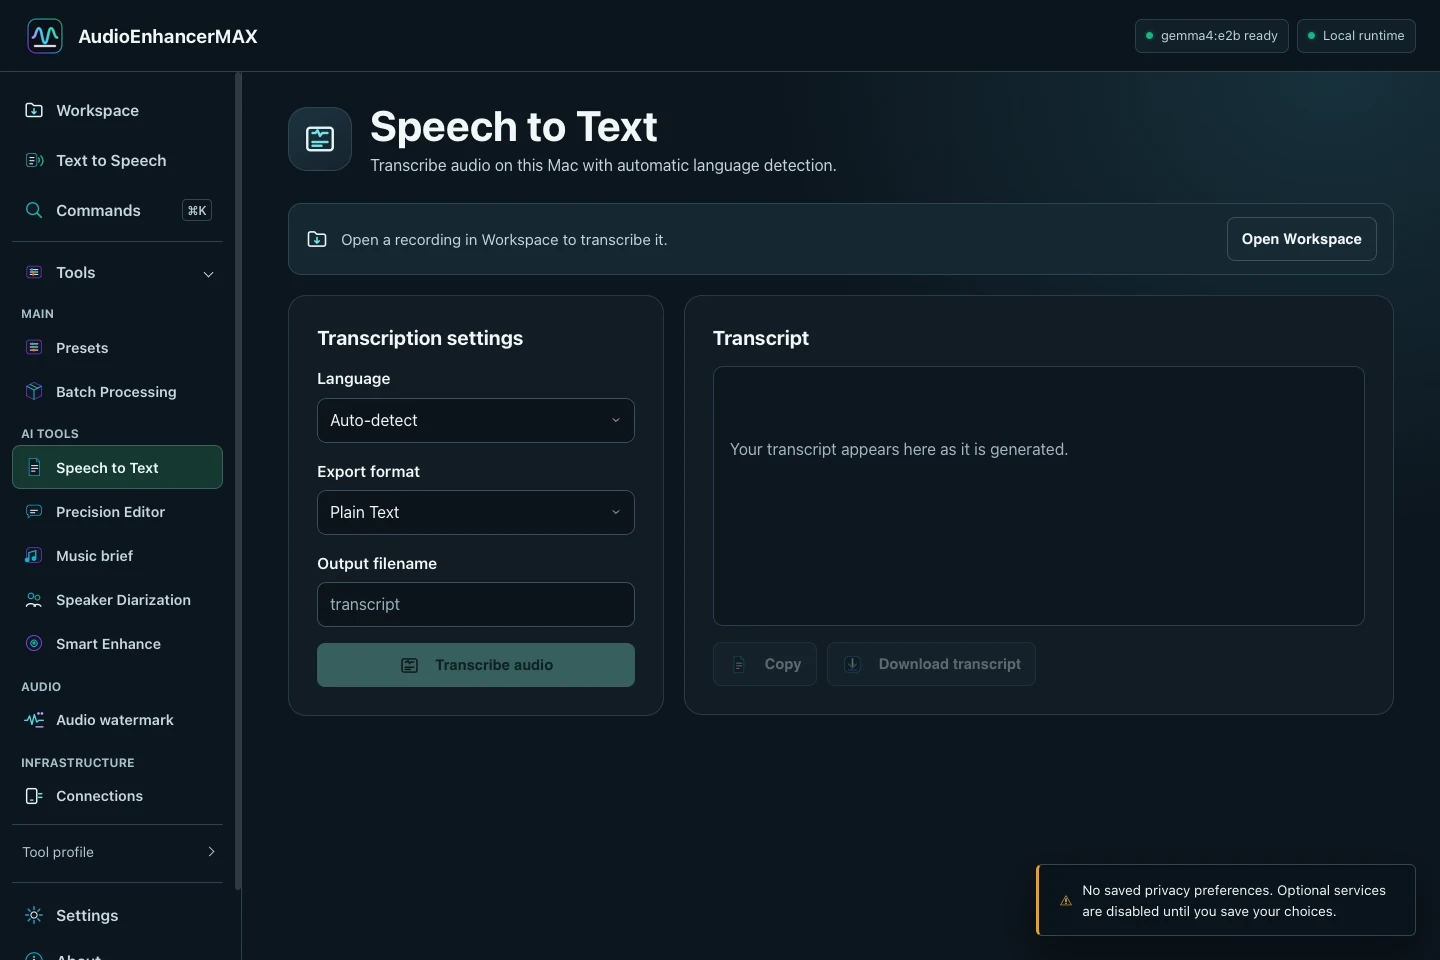
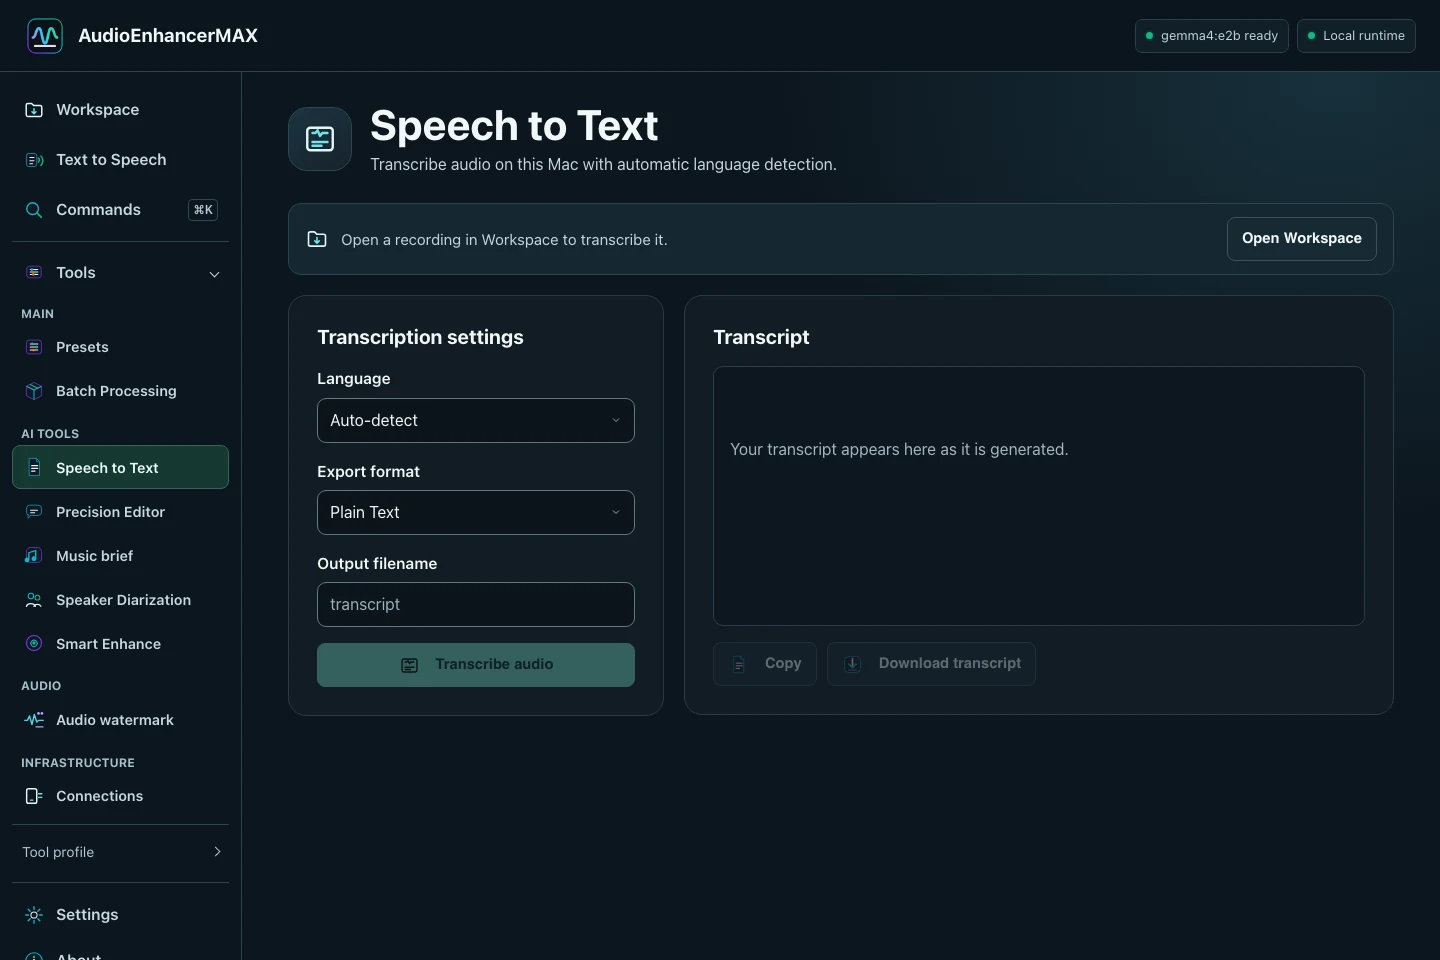
Show the distributed Mac build in the website and press kit

diff --git a/web/press.html b/web/press.html
@@ -19,8 +19,8 @@
 <section class="aem4-release aem412" id="gallery-4-1-2" aria-labelledby="gallery-4-1-2-heading">
 <h2 id="gallery-4-1-2-heading">Mac workspace and speech tools</h2>
 <p>Captured from the 4.1.3 QA package showing the refreshed interface shipped in 4.1.2 BETA, build 4.1.4.</p>
-<figure><a href="img/press/v4.1.2-beta.1/mac-workspace.webp"><img src="img/press/v4.1.2-beta.1/mac-workspace.webp" width="1440" height="1000" loading="lazy" decoding="async" alt="Mac Audio workspace with the original signal sculpture, import actions and Verify content panel"></a><figcaption>Audio workspace · Mac QA build 4.1.3</figcaption></figure>
-<div class="aem412-mac-grid"><figure><a href="img/press/v4.1.2-beta.1/mac-tts.webp"><img src="img/press/v4.1.2-beta.1/mac-tts.webp" width="1440" height="960" loading="lazy" decoding="async" alt="Mac Text to Speech workspace with script editor and Voice and Delivery controls"></a><figcaption>Text to Speech · Mac QA build 4.1.3</figcaption></figure><figure><a href="img/press/v4.1.2-beta.1/mac-stt.webp"><img src="img/press/v4.1.2-beta.1/mac-stt.webp" width="1440" height="960" loading="lazy" decoding="async" alt="Mac Speech to Text workspace with source language and transcription controls"></a><figcaption>Speech to Text · Mac QA build 4.1.3</figcaption></figure></div>
+<figure><a href="img/press/v4.1.2-beta.1/mac-workspace.webp?build=4.1.4"><img src="img/press/v4.1.2-beta.1/mac-workspace.webp?build=4.1.4" width="1440" height="1000" loading="lazy" decoding="async" alt="Mac audio workspace with file import and Verify Content controls"></a><figcaption>Audio workspace · Mac build 4.1.4</figcaption></figure>
+<div class="aem412-mac-grid"><figure><a href="img/press/v4.1.2-beta.1/mac-tts.webp?build=4.1.4"><img src="img/press/v4.1.2-beta.1/mac-tts.webp?build=4.1.4" width="1440" height="960" loading="lazy" decoding="async" alt="Mac Text to Speech workspace with script editor and Voice and Delivery controls"></a><figcaption>Text to Speech · Mac build 4.1.4</figcaption></figure><figure><a href="img/press/v4.1.2-beta.1/mac-stt.webp?build=4.1.4"><img src="img/press/v4.1.2-beta.1/mac-stt.webp?build=4.1.4" width="1440" height="960" loading="lazy" decoding="async" alt="Mac Speech to Text workspace with source language and transcription controls"></a><figcaption>Speech to Text · Mac build 4.1.4</figcaption></figure></div>
 <h2>Companion welcome and verification</h2>
 <div class="aem412-mobile-grid"><figure><a href="img/press/v4.1.2-beta.1/android-welcome.webp"><img src="img/press/v4.1.2-beta.1/android-welcome.webp" width="1080" height="2400" loading="lazy" decoding="async" alt="Android welcome listing offline media inspection, artwork EXIF and the Studio format guide"></a><figcaption>Welcome · Android emulator, build 19</figcaption></figure><figure><a href="img/press/v4.1.2-beta.1/android-verify.webp"><img src="img/press/v4.1.2-beta.1/android-verify.webp" width="1080" height="2400" loading="lazy" decoding="async" alt="Android Verify Content showing embedded artwork camera and exposure metadata from synthetic media"></a><figcaption>Artwork metadata · Android emulator, build 19</figcaption></figure><figure><a href="img/press/v4.1.2-beta.1/ios-welcome.webp"><img src="img/press/v4.1.2-beta.1/ios-welcome.webp" width="1398" height="2034" loading="lazy" decoding="async" alt="iOS Welcome showing the original mark, version and new metadata tools"></a><figcaption>Welcome · iOS Simulator, build 14</figcaption></figure><figure><a href="img/press/v4.1.2-beta.1/ios-verify.webp"><img src="img/press/v4.1.2-beta.1/ios-verify.webp" width="1398" height="2034" loading="lazy" decoding="async" alt="iOS Verify Content showing the SHA-256 fingerprint and format of a synthetic M4A file"></a><figcaption>Verify Content · iOS Simulator, build 14</figcaption></figure></div>
 <p>Original app artwork · <a href="img/press/v4.1.2-beta.1/workspace-signal.webp" download>Workspace signal sculpture</a> · <a href="img/press/v4.1.2-beta.1/voice-studio.webp" download>Voice Studio microphone</a> · <a href="img/press/v4.1.2-beta.1/content-credentials.svg" download>Content Credentials tool icon</a></p>

diff --git a/web/index.html b/web/index.html
@@ -1088,7 +1088,7 @@
             <a href="https://apps.apple.com/app/audioenhancermax/id6791591803" data-aem-target="app-store" data-aem-placement="hero">Mac App Store</a>
         </p>
     </div>
-    <figure class="aem412-hero-figure"><a href="img/press/v4.1.2-beta.1/mac-workspace.webp"><img src="img/press/v4.1.2-beta.1/mac-workspace.webp" width="1440" height="1000" fetchpriority="high" decoding="async" alt="Mac Audio workspace with the original signal sculpture, import actions and Verify content panel"></a><figcaption>Audio workspace · Mac QA build 4.1.3</figcaption></figure>
+    <figure class="aem412-hero-figure"><a href="img/press/v4.1.2-beta.1/mac-workspace.webp?build=4.1.4"><img src="img/press/v4.1.2-beta.1/mac-workspace.webp?build=4.1.4" width="1440" height="1000" fetchpriority="high" decoding="async" alt="Mac audio workspace with file import and Verify Content controls"></a><figcaption>Audio workspace · Mac build 4.1.4</figcaption></figure>
 </section>
 
 <section class="aem412 aem412-home" id="beta-4-1-2" aria-labelledby="beta-4-1-2-heading">
